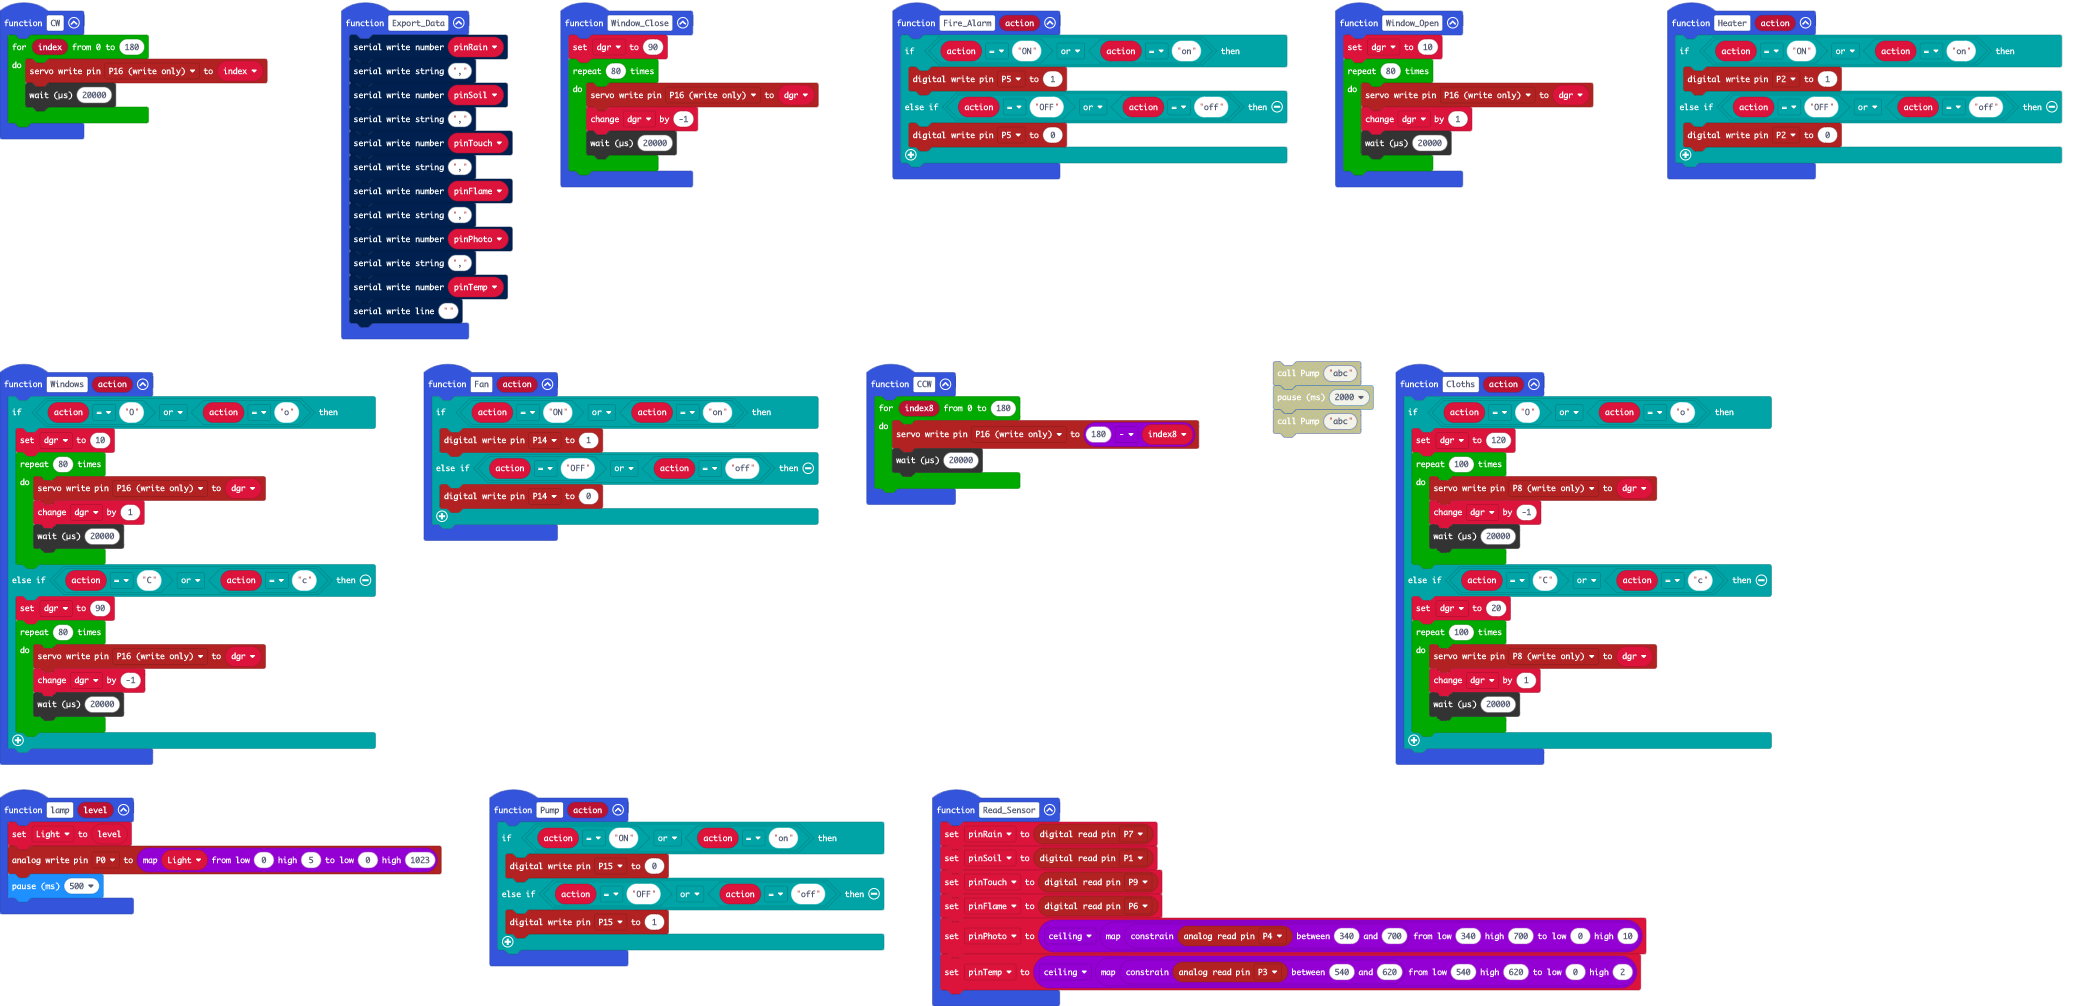
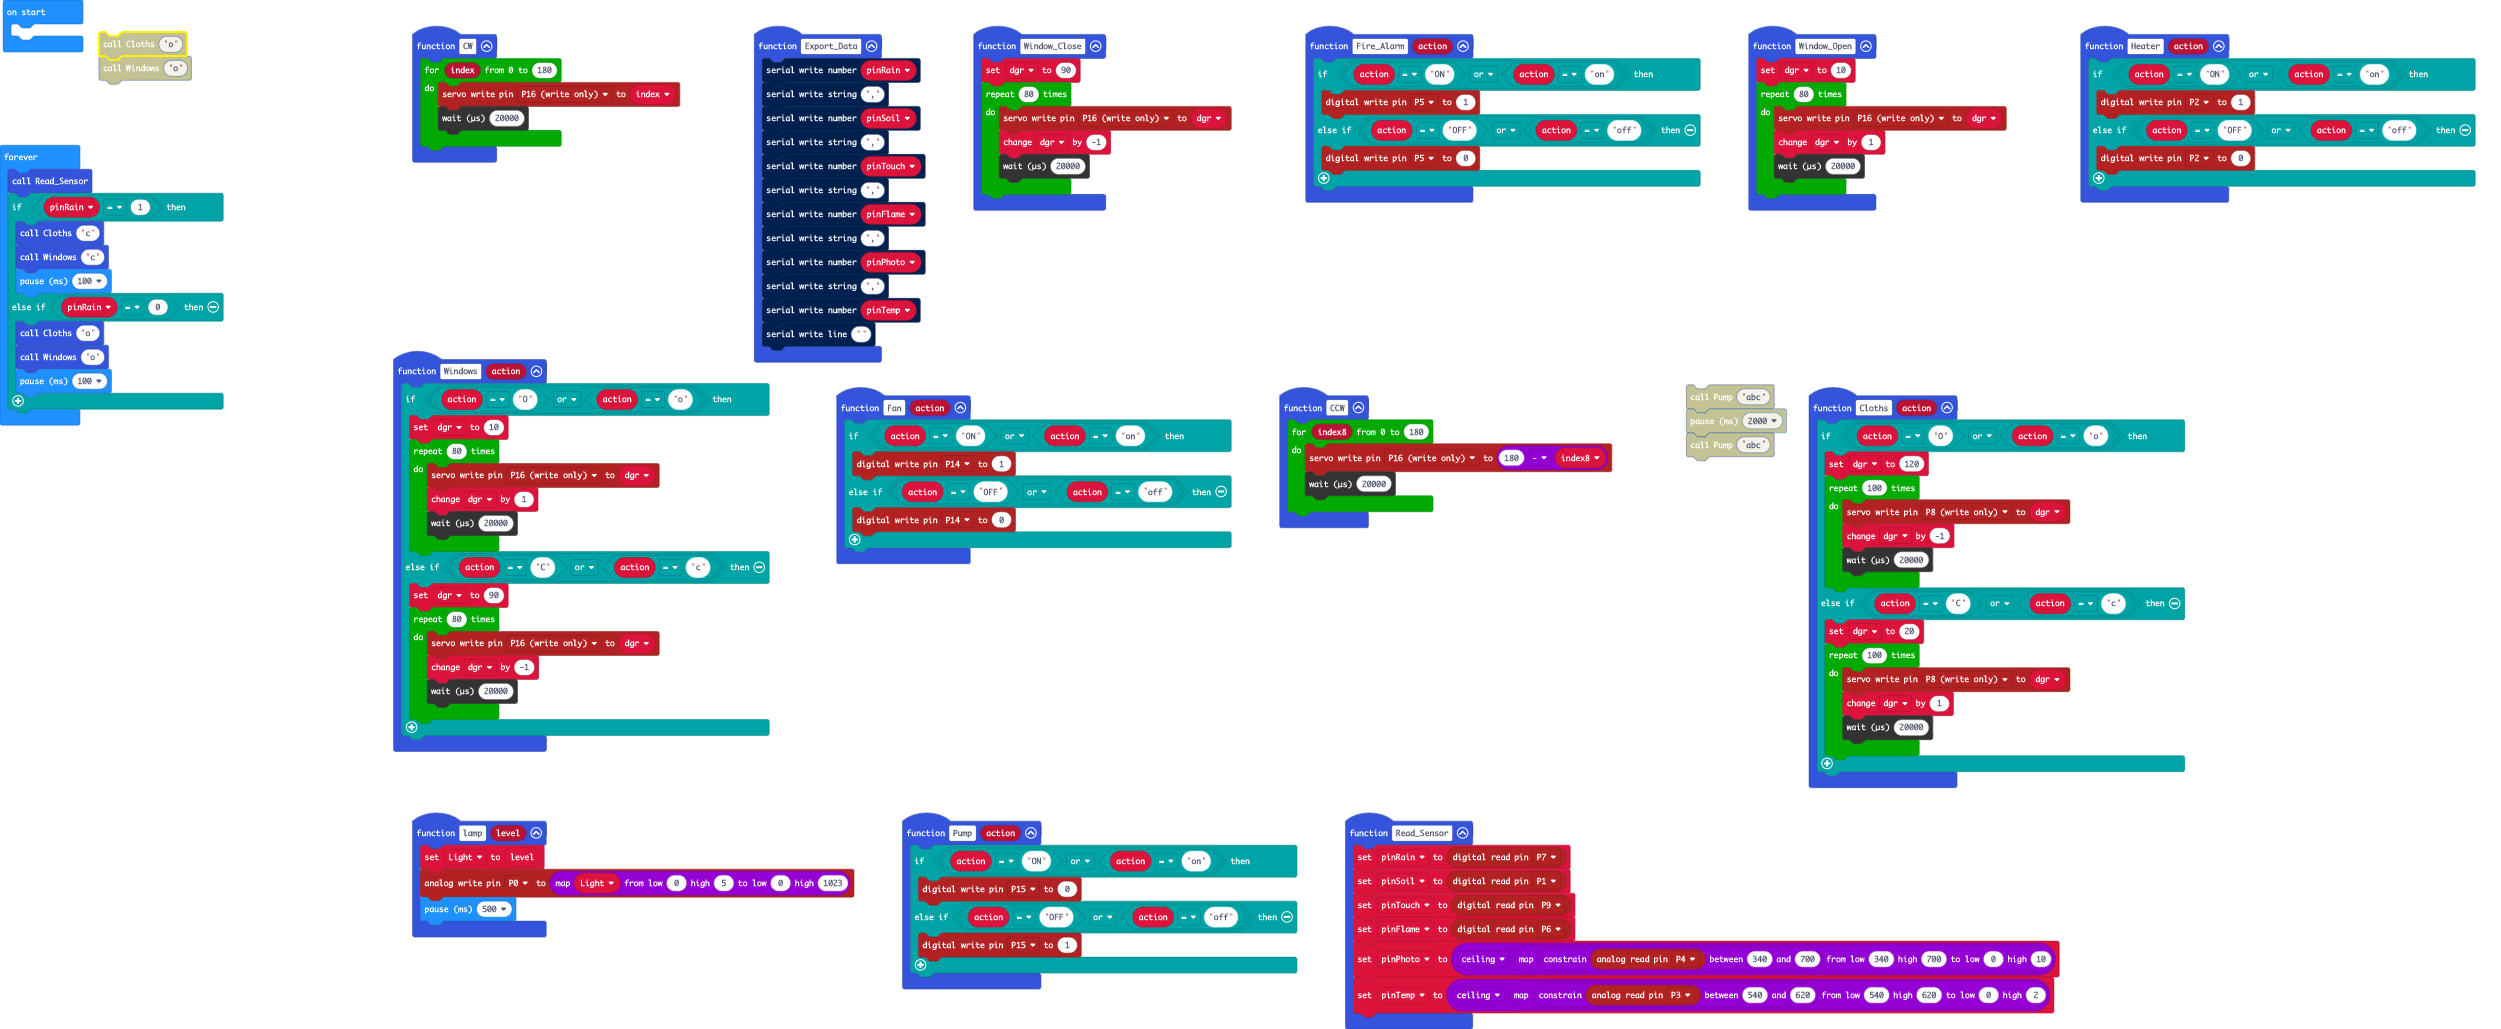
Update main.blocks, main.ts

diff --git a/main.ts b/main.ts
@@ -123,3 +123,15 @@ function Pump (action: string) {
         pins.digitalWritePin(DigitalPin.P15, 1)
     }
 }
+basic.forever(function () {
+    Read_Sensor()
+    if (pinRain == 1) {
+        Cloths("c")
+        Windows("c")
+        basic.pause(100)
+    } else if (pinRain == 0) {
+        Cloths("o")
+        Windows("o")
+        basic.pause(100)
+    }
+})
